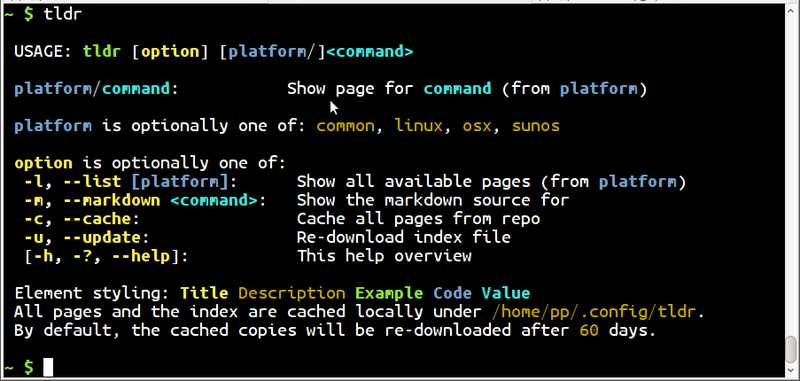
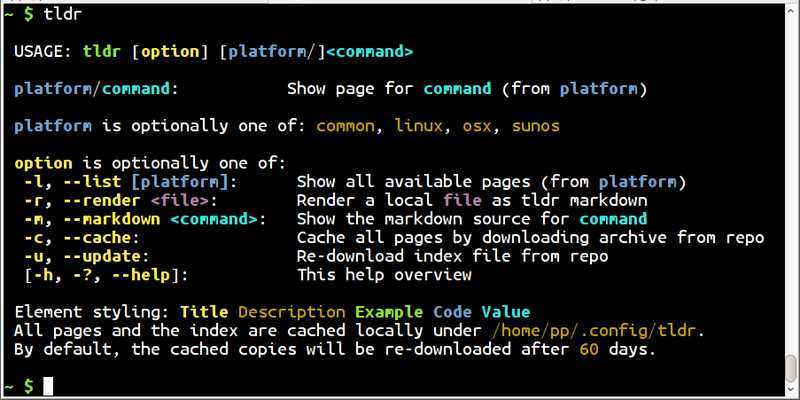
Added render option, adapted readme and usage screenshot

diff --git a/README.md b/README.md
@@ -4,9 +4,9 @@
 client for the [tldr](https://github.com/rprieto/tldr/) project, providing
 poignant examples of terminal commands.**
 
-![tldr screenshot list](tldr-list.jpg?raw=true "tldr list" {width=800px})
+![tldr list screenshot](tldr-list.jpg?raw=true "tldr list" | width=800)
 
-![tldr screenshot page](tldr-page.jpg?raw=true "tldr page" {width=800px})
+<img src="tldr-page.jpg" width="800" title="tldr page" alt="tldr page screenshot"/>
 
 ## Installation
 Download the tldr bash script to the install location:
@@ -22,7 +22,7 @@ If the location is not in $PATH, you need to specify the path to run it.
 ### Prerequisites
 coreutils, less, grep, unzip, curl / wget
 
-![tldr screenshot usage](tldr-usage.jpg?raw=true "tldr usage" {width=800px})
+![tldr usage screenshot](tldr-usage.jpg?raw=true "tldr usage" | width=800)
 
 ## Customisation
 The colors and other styling of the 5 elements of tldr pages can be modified
@@ -38,14 +38,14 @@ Also the error color and page expiry can easily be set:
 * TLDR_ERROR_COLOR (defaults to: Red)
 * TLDR_EXPIRY (defaults to: 60)
 
-![tldr screenshot customize](tldr-customize.jpg?raw=true "tldr customize" {width=800px})
+![tldr customize screenshot](tldr-customize.jpg?raw=true "tldr customize" | width=800)
 
 ## Contributing
 
 Please file an issue for a question, a bug or a feature request.
 Or even better, send a pull request!
 
-![tldr screenshot markdown](tldr-markdown.jpg?raw=true "tldr markdown" {width=800px})
+![tldr markdown screenshot](tldr-markdown.jpg?raw=true "tldr markdown" {width=800px})
 
 ### License
 
